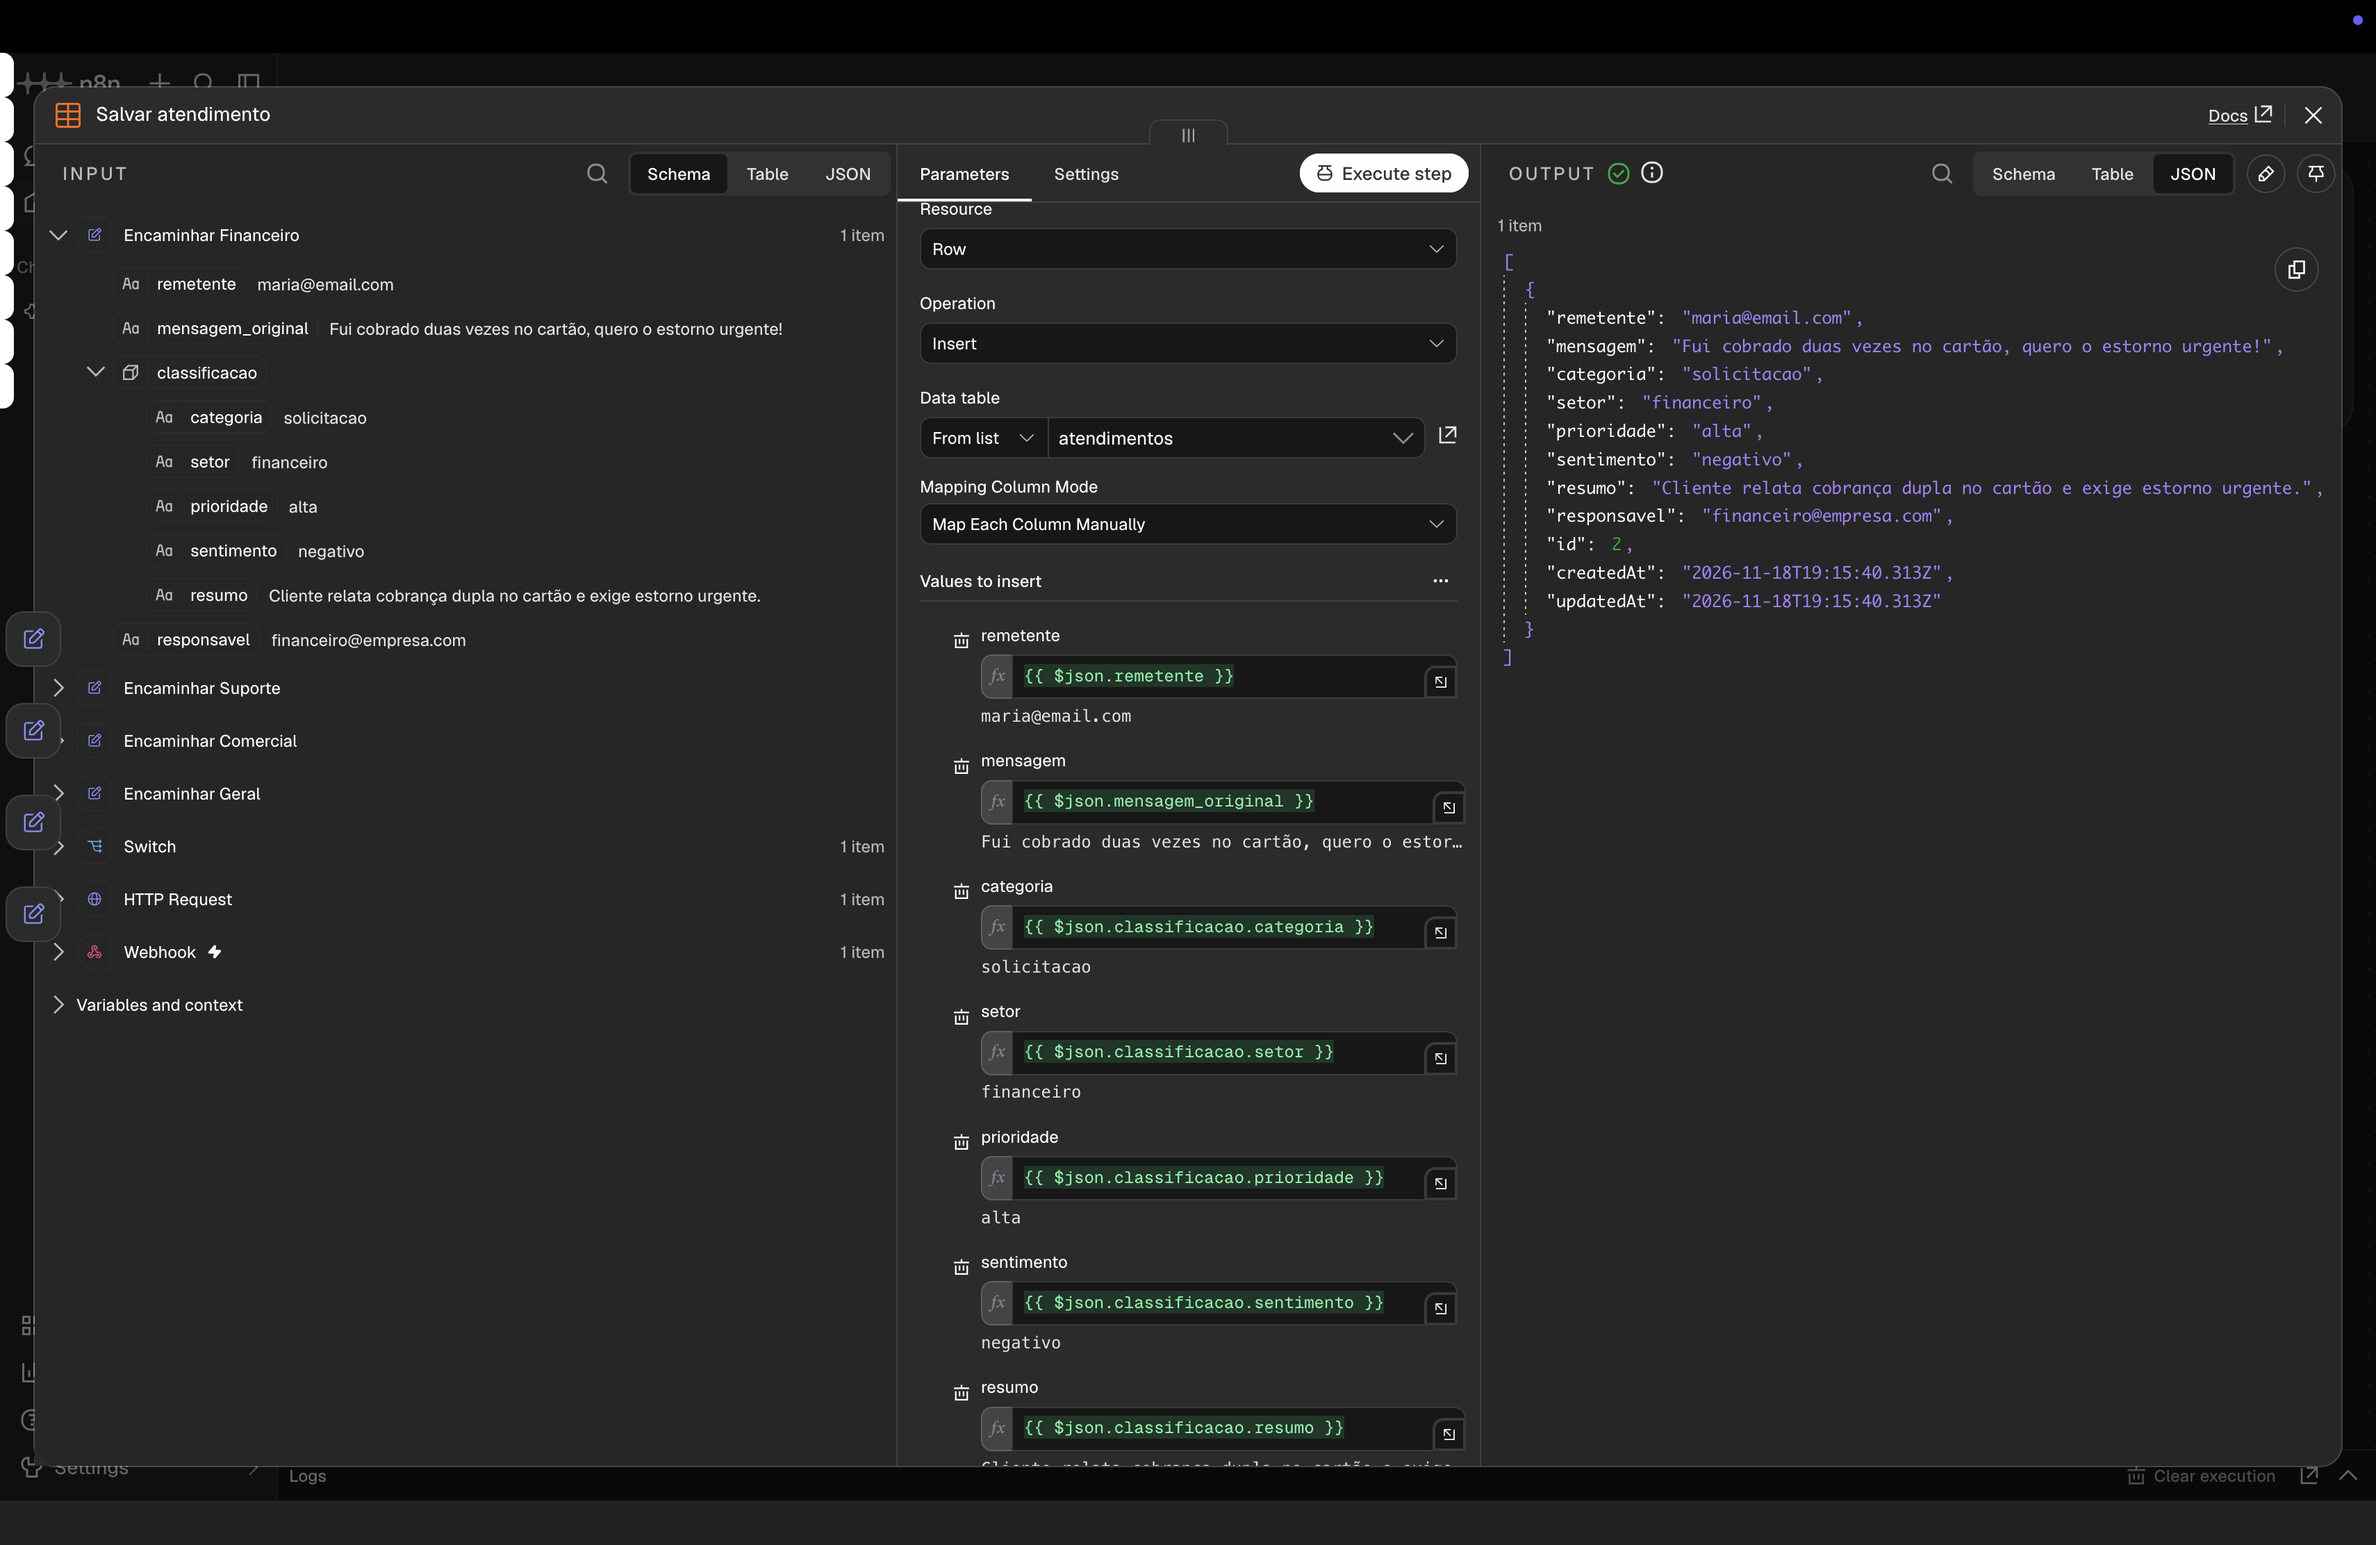
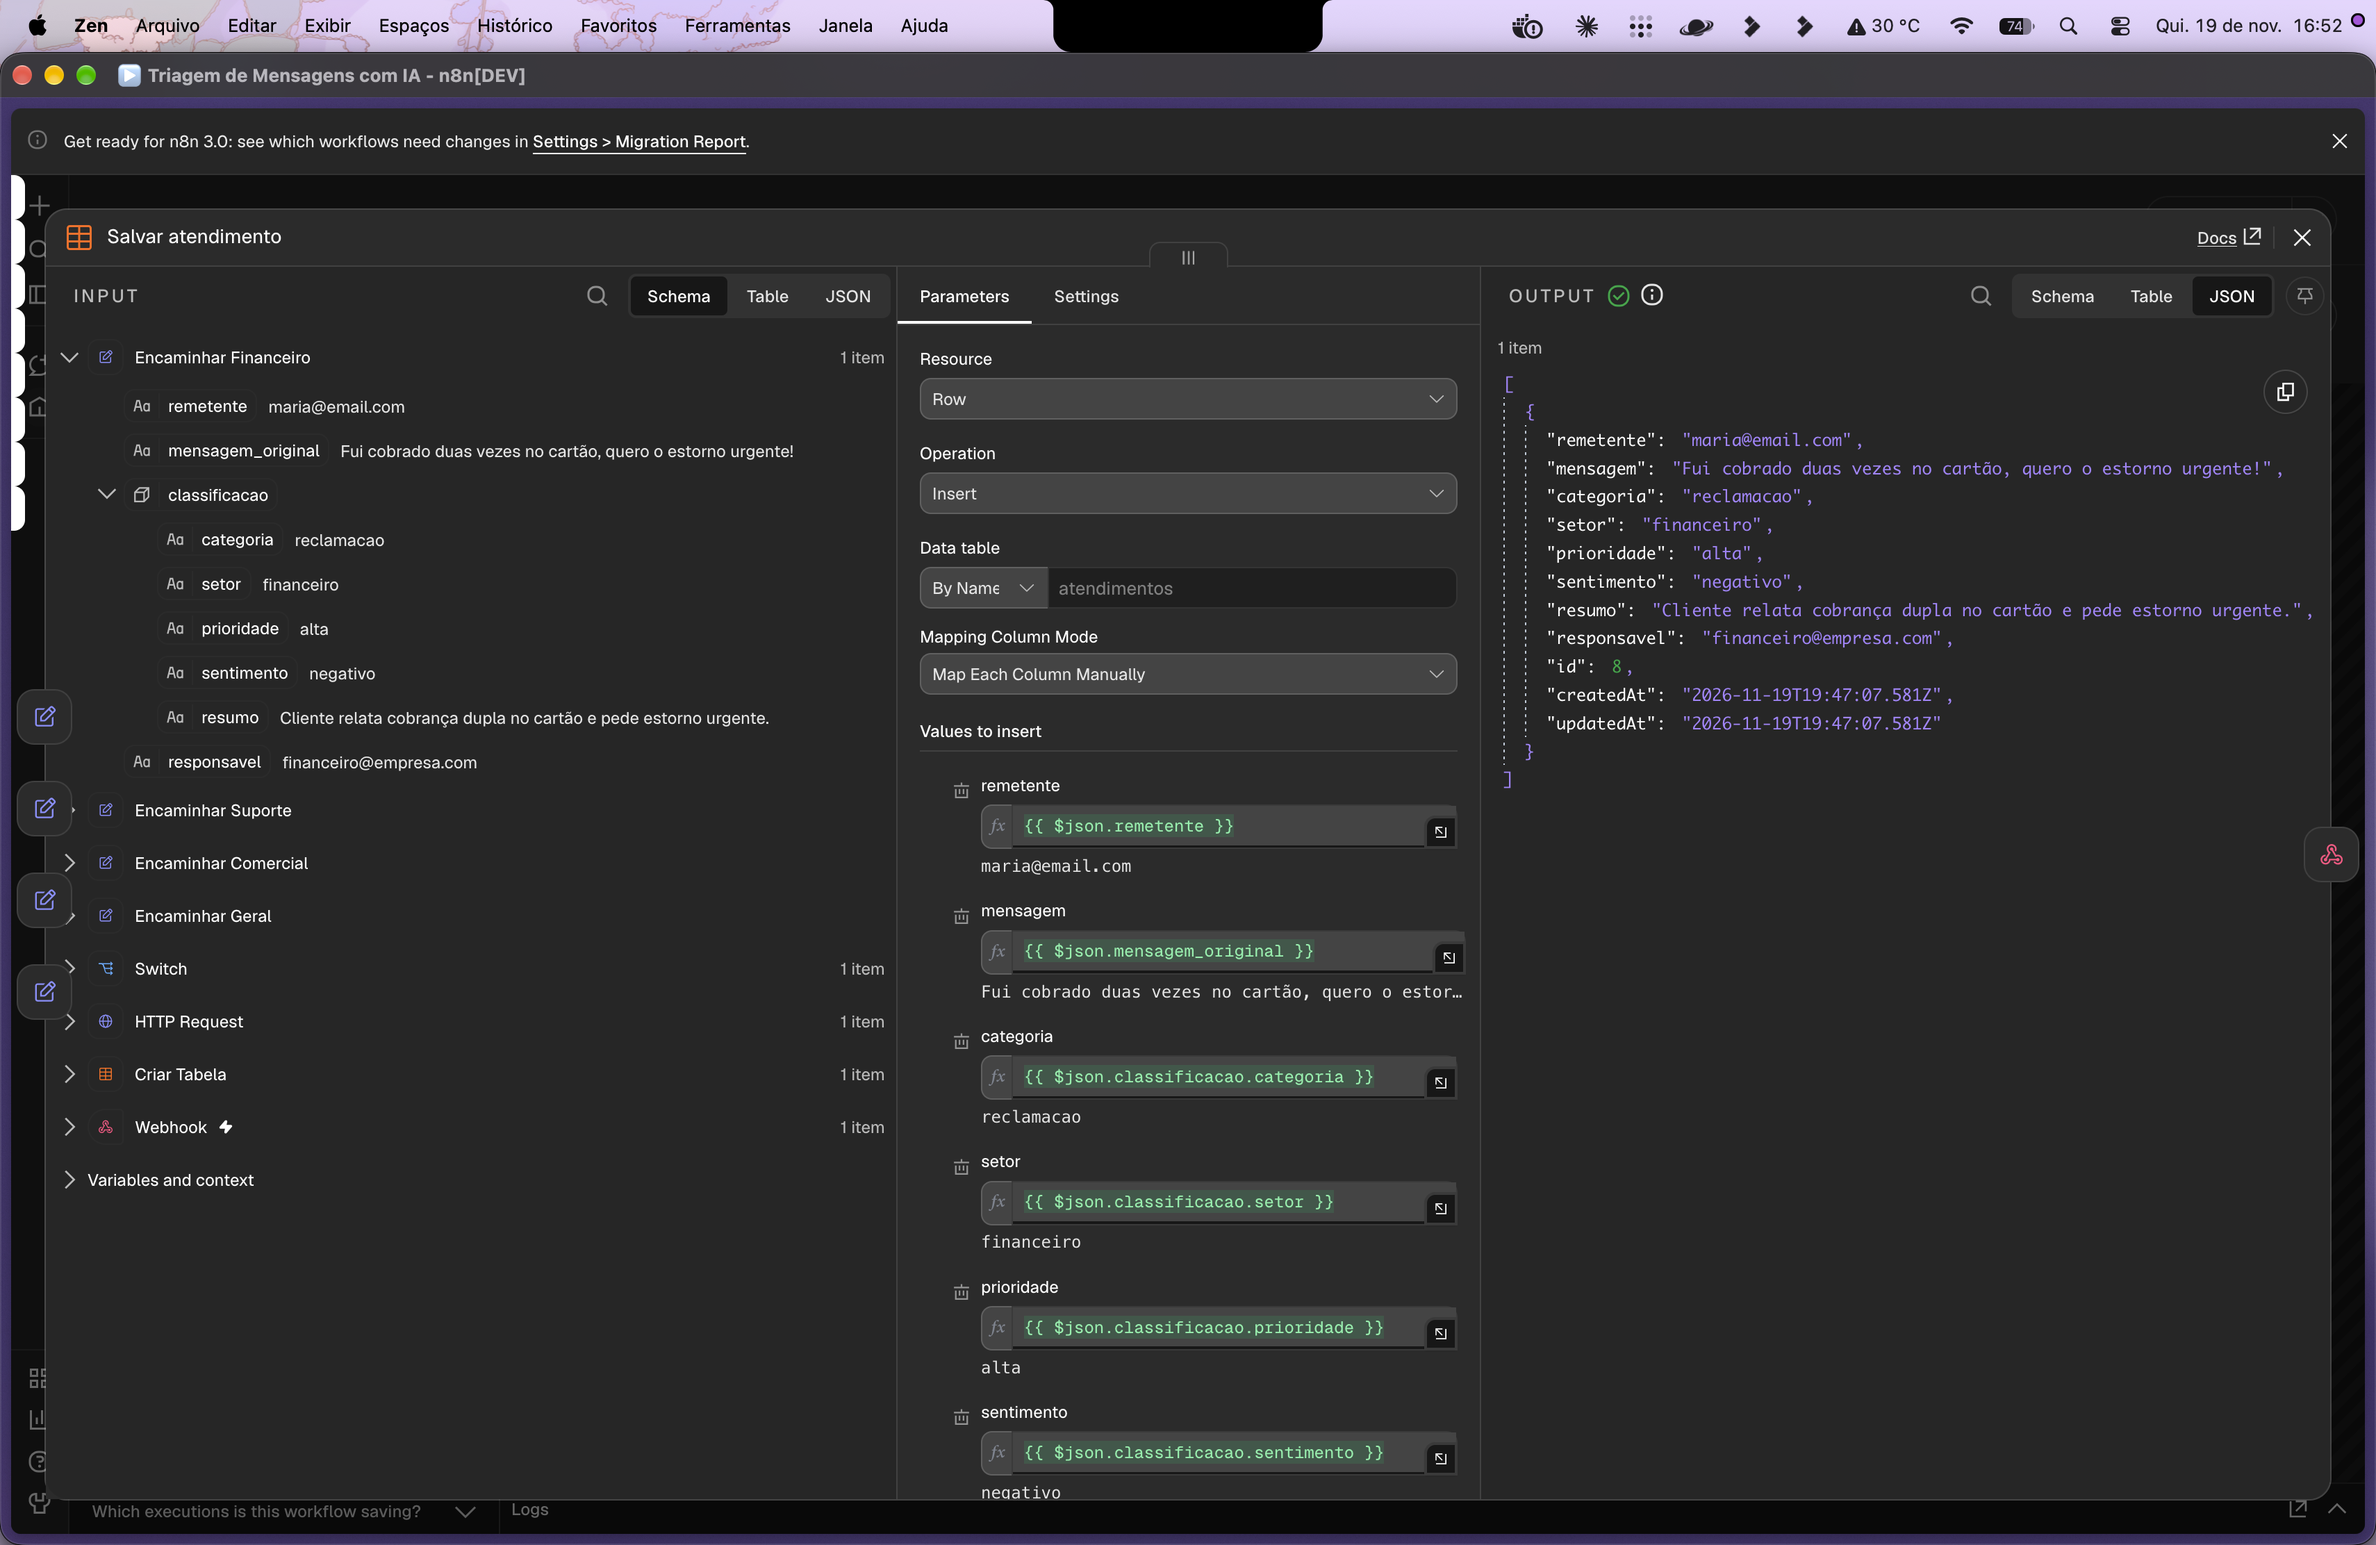
Criação automática da tabela, sumário e documentação das duas formas de execução

diff --git a/README.md b/README.md
@@ -6,6 +6,46 @@ Solução que usa **Inteligência Artificial (Google Gemini)**, uma **API em Pyt
 
 ---
 
+## 📑 Sumário
+
+### 🚀 Quero rodar o projeto
+
+| Como você vai rodar? | Siga estas seções, nesta ordem |
+|---|---|
+| 💻 **Sem Docker** (Python + Node.js na máquina) | [Pré-requisitos](#pré-requisitos-sem-docker) → [6.1 Clonar e configurar a API](#61-clonar-e-configurar-a-api) → [6.2 Rodar a API](#62-rodar-a-api) → [6.3 Rodar o n8n](#63-rodar-o-n8n) → [6.4 Testar](#64-testar) |
+| 🐳 **Com Docker** (API e n8n em containers) | [6.6 Executar com Docker](#66-executar-com-docker-opcional) → [6.4 Testar](#64-testar) |
+| ❗ Deu algum erro | [6.5 Problemas comuns](#65-problemas-comuns) |
+
+> ⚠ As duas formas são **alternativas**: escolha uma e não rode as duas ao mesmo tempo (ambas usam as portas 8000 e 5678).
+
+### 📚 Conteúdo completo
+
+1. [Apresentação da Ideia](#1-apresentação-da-ideia)
+2. [Problema Escolhido](#2-problema-escolhido)
+3. [Solução Proposta](#3-solução-proposta)
+4. [Tecnologias Utilizadas](#4-tecnologias-utilizadas)
+5. [Funcionamento do Sistema](#5-funcionamento-do-sistema)
+   - [Arquitetura](#arquitetura)
+   - [Como a API recebe os dados](#como-a-api-recebe-os-dados)
+   - [Como a IA processa as informações](#como-a-ia-processa-as-informações)
+   - [Como a automação é executada](#como-a-automação-é-executada)
+6. [Como Executar](#6-como-executar)
+   - [6.1 a 6.3 Sem Docker](#61-clonar-e-configurar-a-api)
+   - [6.4 Testar](#64-testar)
+   - [6.5 Problemas comuns](#65-problemas-comuns)
+   - [6.6 Com Docker](#66-executar-com-docker-opcional)
+7. [Documentação do Fluxo de Automação](#7-documentação-do-fluxo-de-automação)
+   - [Fluxo completo](#71-fluxo-completo)
+   - [Execução bem-sucedida](#72-execução-bem-sucedida)
+   - [Configuração dos nodes](#73-configuração-dos-nodes)
+   - [Resultados](#74-resultados)
+- [Estrutura do Projeto](#-estrutura-do-projeto)
+- [Segurança](#-segurança)
+- [Melhorias Futuras](#-melhorias-futuras)
+- [Licença](#-licença)
+
+---
+
 ## 1. Apresentação da Ideia
 
 A ideia surgiu ao observar como pequenas empresas recebem diariamente dezenas de mensagens de clientes (dúvidas, reclamações, pedidos e elogios) e dependem de uma pessoa para ler cada uma, entender o assunto e repassar ao setor certo. Esse trabalho é repetitivo, consome tempo e atrasa o atendimento justamente das mensagens mais urgentes.
@@ -59,8 +99,8 @@ Cliente (curl / site / app)
         │  POST { mensagem, remetente }
         ▼
 ┌──────────────────────────────── n8n ────────────────────────────────┐
-│ Webhook → HTTP Request ──────────────► API FastAPI ──► Gemini        │
-│                 ◄──────── JSON classificado ◄──────┘                 │
+│ Webhook → Criar Tabela → HTTP Request ──► API FastAPI ──► Gemini     │
+│                              ◄── JSON classificado ◄──┘              │
 │                 │                                                    │
 │                 ▼                                                    │
 │              Switch (por setor)                                      │
@@ -132,17 +172,29 @@ Também foi usada `temperature=0` para que a mesma mensagem receba sempre a mesm
 | Node | Função |
 |---|---|
 | **Webhook** | Porta de entrada: recebe a mensagem via `POST /webhook/nova-mensagem` |
+| **Criar Tabela** | Cria a Data Table `atendimentos` caso ainda não exista (opção *Reuse Existing Tables*), dispensando qualquer configuração manual |
 | **HTTP Request** | Envia a mensagem para a API (`/classificar`) e recebe a classificação da IA |
 | **Switch** | Lê o campo `classificacao.setor` e direciona para uma de 4 saídas |
 | **Encaminhar (×4)** | Adiciona o e-mail do responsável de cada setor |
-| **Salvar Atendimento** | Grava o atendimento na Data Table `atendimentos` |
+| **Salvar Atendimento** | Grava o atendimento na Data Table `atendimentos`, localizada pelo nome |
 | **Responder** | Devolve a quem enviou o registro do atendimento salvo |
 
 O fluxo exportado está em [`n8n/triagem-mensagens.json`](n8n/triagem-mensagens.json).
 
 ## 6. Como Executar
 
-### Pré-requisitos
+O projeto pode ser executado de **duas formas alternativas**. Escolha **uma** delas:
+
+| Forma | Seções | Quando usar |
+|---|---|---|
+| **Sem Docker** | 6.1, 6.2 e 6.3 | Rodando a API com Python e o n8n com Node.js direto na máquina |
+| **Com Docker** | 6.6 | Subindo a API e o n8n juntos, em containers, com um único comando |
+
+Os testes (6.4) e os problemas comuns (6.5) valem para as duas formas.
+
+> ⚠ **Não rode as duas formas ao mesmo tempo.** Ambas usam as portas **8000** (API) e **5678** (n8n). Antes de trocar de forma, pare a que estiver rodando: `docker compose down` para o Docker, ou **Ctrl+C** nos terminais do uvicorn e do n8n.
+
+### Pré-requisitos (sem Docker)
 
 - Python 3.10+
 - Node.js 20+ (para o n8n)
@@ -191,10 +243,12 @@ n8n start
 
 Acesse <http://localhost:5678> e:
 
-1. Em **Overview → Data tables**, crie a tabela **`atendimentos`** com as colunas (String): `remetente`, `mensagem`, `categoria`, `setor`, `prioridade`, `sentimento`, `resumo`, `responsavel`.
-2. Em **Workflows → Import from File**, importe `n8n/triagem-mensagens.json`.
-3. Abra o node **Salvar Atendimento** e selecione novamente a tabela `atendimentos` (o ID da tabela muda em cada instalação).
-4. Ative o workflow (botão **Active**).
+1. Em **Workflows → Import from File**, importe `n8n/triagem-mensagens.json`.
+2. Publique o workflow (botão **Publish**).
+
+O fluxo exportado já aponta para `http://127.0.0.1:8000/classificar`, que é o endereço da API rodando localmente.
+
+> A tabela `atendimentos` não precisa ser criada manualmente: o node **Criar Tabela** cria a tabela automaticamente na primeira execução.
 
 ### 6.4. Testar
 
@@ -220,7 +274,9 @@ Outras mensagens para testar cada setor:
 | Problema | Causa | Solução |
 |---|---|---|
 | API retorna **502** | Nome do modelo inválido ou chave incorreta no `.env` | Confira o código exato do modelo no AI Studio e reinicie o uvicorn após editar o `.env` |
-| n8n: *"The service refused the connection"* | Em versões recentes do Node.js, `localhost` é resolvido como IPv6 (`::1`), mas o uvicorn escuta em IPv4 | Use `http://127.0.0.1:8000/classificar` no HTTP Request |
+| n8n: *"The service refused the connection"* (sem Docker) | Em versões recentes do Node.js, `localhost` é resolvido como IPv6 (`::1`), mas o uvicorn escuta em IPv4 | Use `http://127.0.0.1:8000/classificar` no HTTP Request |
+| n8n: *"The service refused the connection"* (com Docker) | Dentro do container, `127.0.0.1` aponta para o próprio n8n, e não para a API | Use `http://api:8000/classificar` no HTTP Request (nome do serviço no `docker-compose.yml`) |
+| Erro *"port is already allocated"* ou *"address already in use"* | A outra forma de execução ainda está rodando nas portas 8000 ou 5678 | Pare a outra forma (`docker compose down` ou **Ctrl+C**) antes de iniciar |
 | n8n: *"Workflow could not be started"* | Webhook configurado para responder via "Respond to Webhook", mas o node não existe ou não está conectado | Conecte o node **Responder** ao final do fluxo |
 | Erro de versão ao instalar o n8n | Node.js antigo | Atualize o Node.js (ex.: `nvm install 24`) |
 
@@ -230,7 +286,12 @@ Com o Docker, a API e o n8n sobem juntos com um único comando, sem precisar ins
 
 **Pré-requisito:** [Docker Desktop](https://www.docker.com/products/docker-desktop/) instalado e aberto.
 
-1. Crie o `.env` a partir do exemplo e preencha sua chave do Gemini:
+1. Clone o repositório, entre na pasta, crie o `.env` a partir do exemplo e preencha sua chave do Gemini:
+
+```bash
+git clone https://github.com/milenaagostinho/classificador-mensagens.git
+cd classificador-mensagens
+```
 
 ```bash
 cp .env.example .env
@@ -250,13 +311,13 @@ docker compose up -d --build
 docker compose exec n8n n8n import:workflow --input=/workflows/triagem-mensagens.json
 ```
 
-5. Acesse <http://localhost:5678>, crie sua conta local e:
-   - Em **Overview → Data tables**, crie a tabela **`atendimentos`** (mesmas colunas do item 6.3).
-   - Abra o workflow importado e, no node **HTTP Request**, use a URL **`http://api:8000/classificar`**. Dentro do Docker, o n8n acessa a API pelo nome do serviço (`api`), e não por `127.0.0.1`.
-   - No node **Salvar Atendimento**, selecione a tabela `atendimentos`.
-   - Ative o workflow.
+5. Acesse <http://localhost:5678>, crie sua conta local e abra o workflow importado.
+6. No node **HTTP Request**, troque a URL para **`http://api:8000/classificar`**. Dentro do Docker, o n8n acessa a API pelo nome do serviço (`api`), e não por `127.0.0.1`.
+7. Clique em **Publish**.
 
-6. Teste com o mesmo `curl` do item 6.4.
+A tabela `atendimentos` não precisa ser criada: o node **Criar Tabela** cria a tabela na primeira execução.
+
+8. Teste com o mesmo `curl` do item 6.4.
 
 Para parar tudo:
 
@@ -294,7 +355,11 @@ Execução concluída com sucesso. Os nodes em verde mostram o caminho percorrid
 
 ![Webhook](docs/prints/01-webhook-config.png)
 
-**HTTP Request:** envia `mensagem` e `remetente` (vindos do Webhook) para a API em `/classificar`.
+**Criar Tabela (Data Table):** cria a tabela `atendimentos` com as 8 colunas usadas pelo fluxo. Com a opção **Reuse Existing Tables** ligada, nas execuções seguintes ele apenas reaproveita a tabela existente, sem gerar erro. Assim, quem importar o fluxo não precisa criar nada manualmente.
+
+**HTTP Request:** envia `mensagem` e `remetente` para a API no endpoint `/classificar`. Os valores são lidos diretamente do node Webhook (`$('Webhook').item.json.body...`), porque o node anterior agora é o Criar Tabela.
+
+> O fluxo exportado (`n8n/triagem-mensagens.json`) e este print são da execução **sem Docker**, com a URL `http://127.0.0.1:8000/classificar`. Para rodar com Docker, troque a URL para `http://api:8000/classificar`, pois dentro do Docker o n8n acessa a API pelo nome do serviço (veja os itens 6.3 e 6.6).
 
 ![HTTP Request](docs/prints/02-http-request-config.png)
 
@@ -306,7 +371,7 @@ Execução concluída com sucesso. Os nodes em verde mostram o caminho percorrid
 
 ![Edit Fields](docs/prints/05-edit-fields-config.png)
 
-**Salvar Atendimento (Data Table):** mapeia cada campo da classificação para uma coluna da tabela `atendimentos`.
+**Salvar Atendimento (Data Table):** localiza a tabela pelo nome (**By Name** → `atendimentos`), o que funciona em qualquer instalação do n8n, e mapeia cada campo da classificação para uma coluna.
 
 ![Data Table](docs/prints/06-data-table-config.png)
 
